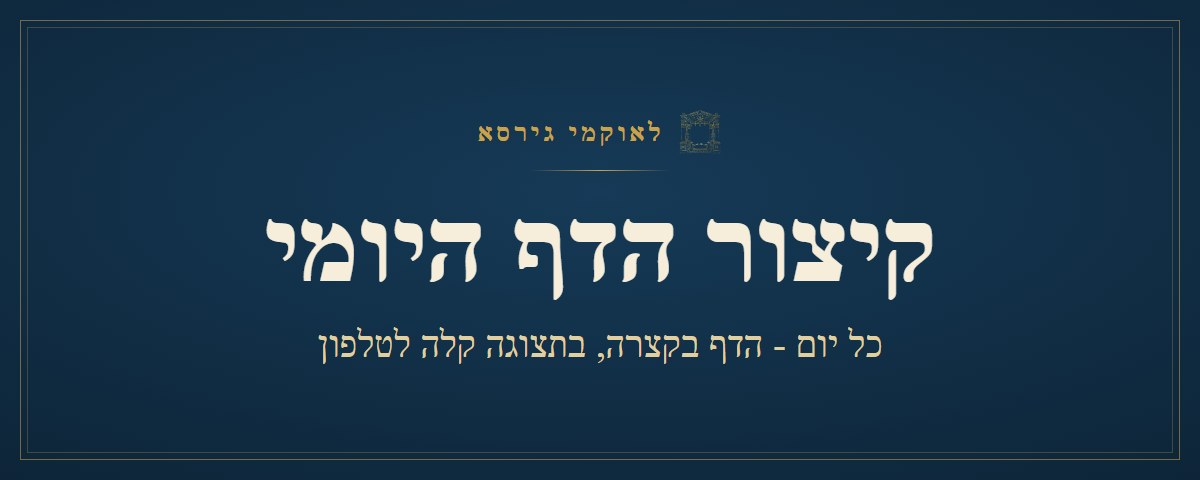
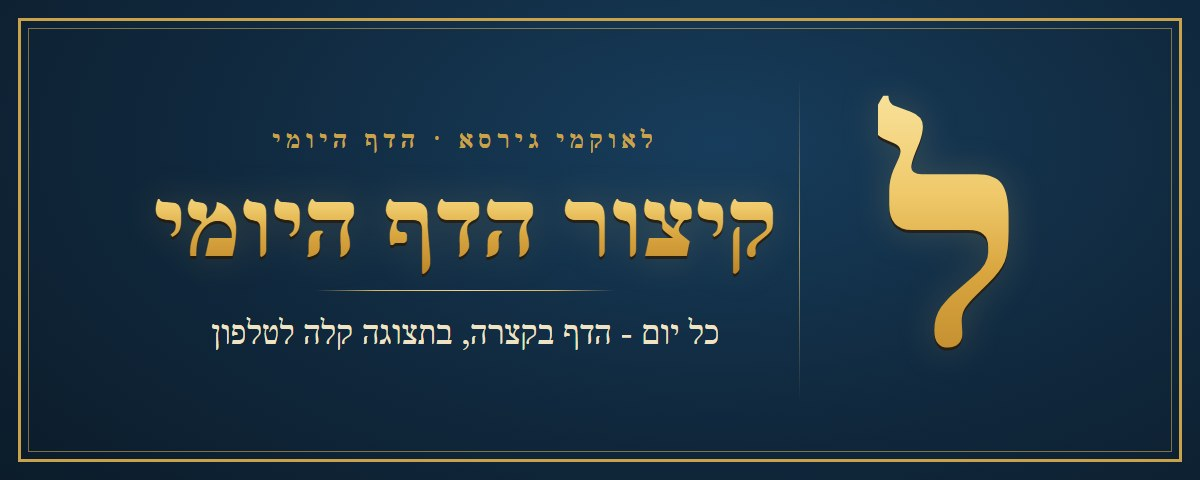
הדף היומי: כרטיס מכובד בשפת סמל האתר - ל' מזהב, שם הדף בזהב בוילנא, מסגרת זהב כפולה, כל התוכן במרכז; כל הכרטיסים הופקו מחדש

diff --git a/tools/daf_wa/card.html b/tools/daf_wa/card.html
@@ -1,28 +1,37 @@
 <!DOCTYPE html>
 <html lang="he" dir="rtl"><head><meta charset="utf-8">
 <style>
-/* כרטיס התצוגה המקדימה של הדף (פרומפט 23): 1200x480, כחול קטיפה וזהב של האתר. בלי רקעי הדגשה מאחורי טקסט.
-   8.11.2026 (בעל הפרויקט): שם הדף בגופן וילנא, והכרטיס נמוך יותר - שלא יתפוס יותר מדי מן המסך. */
+/* כרטיס התצוגה המקדימה של הדף (פרומפט 23): 1200x480, בשפת הסמל של האתר (og-image): כחול קטיפה, מסגרת זהב כפולה, ל' מזהב.
+   כל התוכן בתוך המרכז (917 פיקסלים), כדי שגם חיתוך ליחס 1.91 (פייסבוק ודומיו) לא יקצץ אותו.
+   8.11.2026 (בעל הפרויקט): שם הדף בוילנא, הכרטיס נמוך - שלא יתפוס יותר מדי מן המסך, ונראות מכובדת. בלי רקעי הדגשה מאחורי טקסט. */
 @font-face{font-family:'Frank';src:url(@@FONTS@@/frank.woff2) format('woff2');font-weight:400}
 @font-face{font-family:'Vilna';src:url(@@FONTS@@/vilna-r.woff2) format('woff2');font-weight:400}
 @font-face{font-family:'Vilna';src:url(@@FONTS@@/vilna-b.woff2) format('woff2');font-weight:700}
 html,body{margin:0;width:1200px;height:480px;overflow:hidden}
-body{background:radial-gradient(120% 110% at 50% 40%,#163a57 0%,#0f2a40 50%,#0b1c2a 100%);color:#f3ead6;font-family:'Frank',serif;position:relative}
-.frame{position:absolute;inset:20px;border:1.5px solid rgba(201,162,74,.55)}
-.frame:after{content:'';position:absolute;inset:6px;border:.75px solid rgba(201,162,74,.28)}
-.wrap{position:absolute;inset:0;display:flex;flex-direction:column;align-items:center;justify-content:center;text-align:center}
-.top{display:flex;align-items:center;gap:14px}
-.gate{width:44px;height:44px;opacity:.95}
-.brand{font-family:'Vilna',serif;font-weight:700;font-size:28px;letter-spacing:.14em;color:#c9a24a}
-.rule{width:140px;height:1px;background:linear-gradient(90deg,transparent,#c9a24a,transparent);margin:16px 0 14px}
-.daf{font-family:'Vilna',serif;font-weight:700;font-size:112px;line-height:1.05;color:#f6eedb}
-.line{font-family:'Frank',serif;font-size:40px;line-height:1.3;color:#e2cf9f;margin-top:16px;max-width:1040px}
+body{background:radial-gradient(90% 120% at 60% 30%,#173d5c 0%,#10283d 48%,#0a1824 100%);font-family:'Frank',serif;position:relative}
+.f1{position:absolute;inset:18px;border:3px solid #c9a24a}
+.f2{position:absolute;inset:28px;border:1px solid rgba(214,180,100,.55)}
+.gold{background:linear-gradient(180deg,#fbe7a6 0%,#efc96a 38%,#d9a53f 62%,#b98327 100%);-webkit-background-clip:text;background-clip:text;color:transparent;
+      filter:drop-shadow(0 3px 0 rgba(40,24,6,.75)) drop-shadow(0 0 18px rgba(240,200,110,.18))}
+.lam{position:absolute;right:178px;top:50%;transform:translateY(-52%);font-family:'Vilna',serif;font-weight:700;font-size:330px;line-height:1}
+.sep{position:absolute;right:400px;top:78px;bottom:78px;width:1px;background:linear-gradient(180deg,transparent,rgba(214,180,100,.75),transparent)}
+.txt{position:absolute;right:420px;left:150px;top:0;bottom:0;display:flex;flex-direction:column;align-items:center;justify-content:center;text-align:center}
+.brand{font-family:'Vilna',serif;font-weight:700;font-size:27px;letter-spacing:.2em;color:#c9a24a}
+.daf{font-family:'Vilna',serif;font-weight:700;font-size:104px;line-height:1.08;margin:10px 0 6px;white-space:nowrap}
+.rule{width:300px;height:1.5px;background:linear-gradient(90deg,transparent,#d6b464 20%,#f0d690 50%,#d6b464 80%,transparent);margin:6px 0 18px}
+.line{font-family:'Frank',serif;font-size:36px;line-height:1.3;color:#efe3c4;max-width:620px}
 </style></head><body>
-<div class="frame"></div>
-<div class="wrap">
-  <div class="top"><img class="gate" src="@@GATE@@" alt=""><div class="brand">לאוקמי גירסא</div></div>
+<div class="f1"></div><div class="f2"></div>
+<div class="lam gold">ל</div>
+<div class="sep"></div>
+<div class="txt">
+  <div class="brand">לאוקמי גירסא · הדף היומי</div>
+  <div class="daf gold">@@DAF@@</div>
   <div class="rule"></div>
-  <div class="daf">@@DAF@@</div>
   <div class="line">@@LINE@@</div>
 </div>
+<script>
+/* שם מסכת ארוך: מקטינים עד שנכנס בשורה אחת */
+window.fit=function(){var d=document.querySelector('.daf'),w=d.parentNode.clientWidth,f=104;d.style.fontSize=f+'px';while(d.scrollWidth>w&&f>60){f-=4;d.style.fontSize=f+'px'}};fit();
+</script>
 </body></html>

diff --git a/tools/daf_wa/card.py b/tools/daf_wa/card.py
@@ -38,7 +38,7 @@ def render(jobs):
         pg = b.new_page(viewport={'width': 1200, 'height': 480}, device_scale_factor=1)
         for name, daf, line in jobs:
             pg.set_content(tpl.replace('@@DAF@@', H.escape(daf)).replace('@@LINE@@', H.escape(line)), wait_until='load')
-            pg.evaluate('document.fonts.ready')
+            pg.evaluate('document.fonts.ready.then(() => window.fit && window.fit())')
             pg.wait_for_timeout(150)
             out = os.path.join(OG, name + '.jpg')
             pg.screenshot(path=out, type='jpeg', quality=88)
